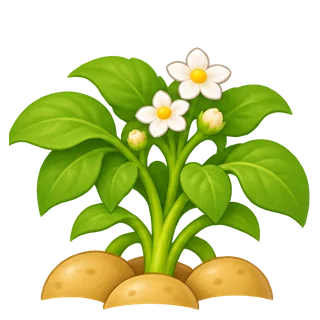
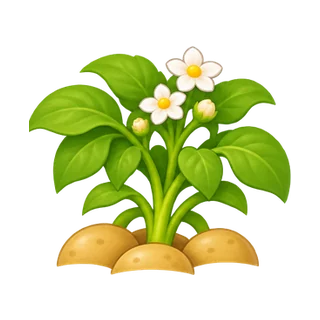
Plantes mûres : plus petites, remontées au milieu du bac (v2.12.2)
Claude-Session: https://claude.ai/code/session_018D5HKJWKwN88xpAGuhHMQJ

diff --git a/index.html b/index.html
@@ -6,13 +6,13 @@
   <title>Potager idle</title>
   <meta name="description" content="Un petit jeu idle de potager : plante, arrose, récolte, cuisine et découvre des variétés hybrides.">
   <meta name="theme-color" content="#fdf3e7" id="theme-color">
-  <link rel="manifest" href="manifest.webmanifest?v=272">
+  <link rel="manifest" href="manifest.webmanifest?v=273">
   <link rel="icon" href="icons/favicon-32.png" sizes="32x32" type="image/png">
   <link rel="icon" href="icons/favicon-64.png" sizes="64x64" type="image/png">
   <link rel="icon" href="icons/icon-192.png" sizes="192x192" type="image/png">
   <link rel="preload" href="fonts/nunito-latin.woff2" as="font" type="font/woff2" crossorigin>
   <link rel="preload" href="fonts/fredoka-latin.woff2" as="font" type="font/woff2" crossorigin>
-  <link rel="stylesheet" href="css/style.css?v=272">
+  <link rel="stylesheet" href="css/style.css?v=273">
 </head>
 <body>
 <div id="app">
@@ -43,15 +43,15 @@
 <div id="fx"></div>
 <div id="toasts" aria-live="polite"></div>
 
-<script src="js/typo.js?v=272"></script>
-<script src="js/data.js?v=272"></script>
-<script src="assets/img/manifest.js?v=272"></script>
-<script src="js/art.js?v=272"></script>
-<script src="js/seasons.js?v=272"></script>
-<script src="js/sound.js?v=272"></script>
-<script src="js/achievements.js?v=272"></script>
-<script src="js/profile.js?v=272"></script>
-<script src="js/tuto.js?v=272"></script>
-<script src="js/game.js?v=272"></script>
+<script src="js/typo.js?v=273"></script>
+<script src="js/data.js?v=273"></script>
+<script src="assets/img/manifest.js?v=273"></script>
+<script src="js/art.js?v=273"></script>
+<script src="js/seasons.js?v=273"></script>
+<script src="js/sound.js?v=273"></script>
+<script src="js/achievements.js?v=273"></script>
+<script src="js/profile.js?v=273"></script>
+<script src="js/tuto.js?v=273"></script>
+<script src="js/game.js?v=273"></script>
 </body>
 </html>

diff --git a/js/game.js b/js/game.js
@@ -1,7 +1,7 @@
 "use strict";
 /* Numéro de version affiché dans les Paramètres.
    À chaque mise à jour : changer APP_VERSION, le ?v= dans index.html et VERSION dans sw.js. */
-const APP_VERSION = "2.12.1";
+const APP_VERSION = "2.12.2";
 /* ---------------- Helpers ---------------- */
 const $ = s => document.querySelector(s);
 const now = () => Date.now();

diff --git a/sw.js b/sw.js
@@ -1,6 +1,6 @@
 /* Service worker de Potager idle : rend le jeu jouable hors-ligne.
    À chaque mise à jour du jeu, augmente VERSION pour que les téléphones téléchargent la nouvelle version. */
-const VERSION = "potager-v272";
+const VERSION = "potager-v273";
 const FILES = [
   "./",
   "index.html",

diff --git a/CHANGELOG.md b/CHANGELOG.md
@@ -61,6 +61,9 @@ Bonne saison au potager ! 🌸☀🍂❄
 
 ## Détail des mises à jour
 
+### 2.12.2
+- Ces plantes mûres sont un peu plus petites et remontées au milieu du bac.
+
 ### 2.12.1
 - Nouvelles images des plantes mûres dans les bacs : radis, laitue, pomme de terre, carotte, blé, fraise et les 8 hybrides.
 
